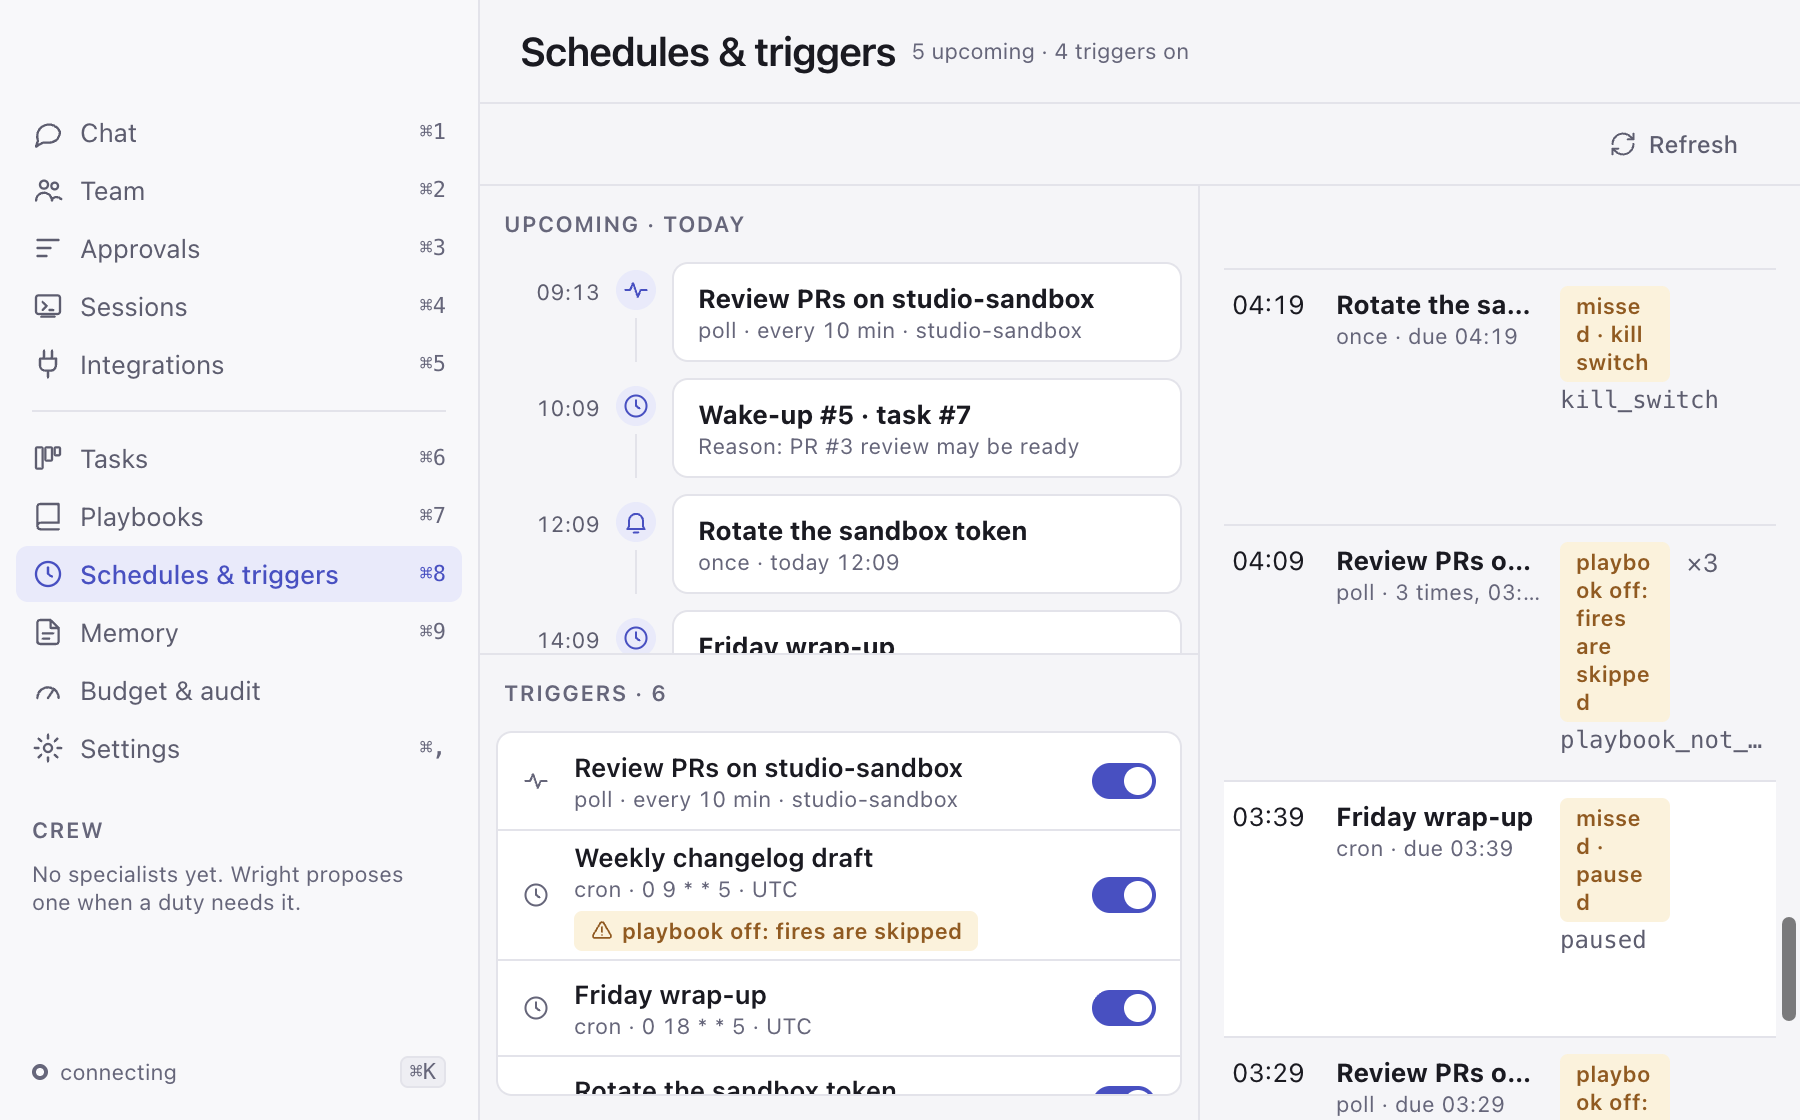
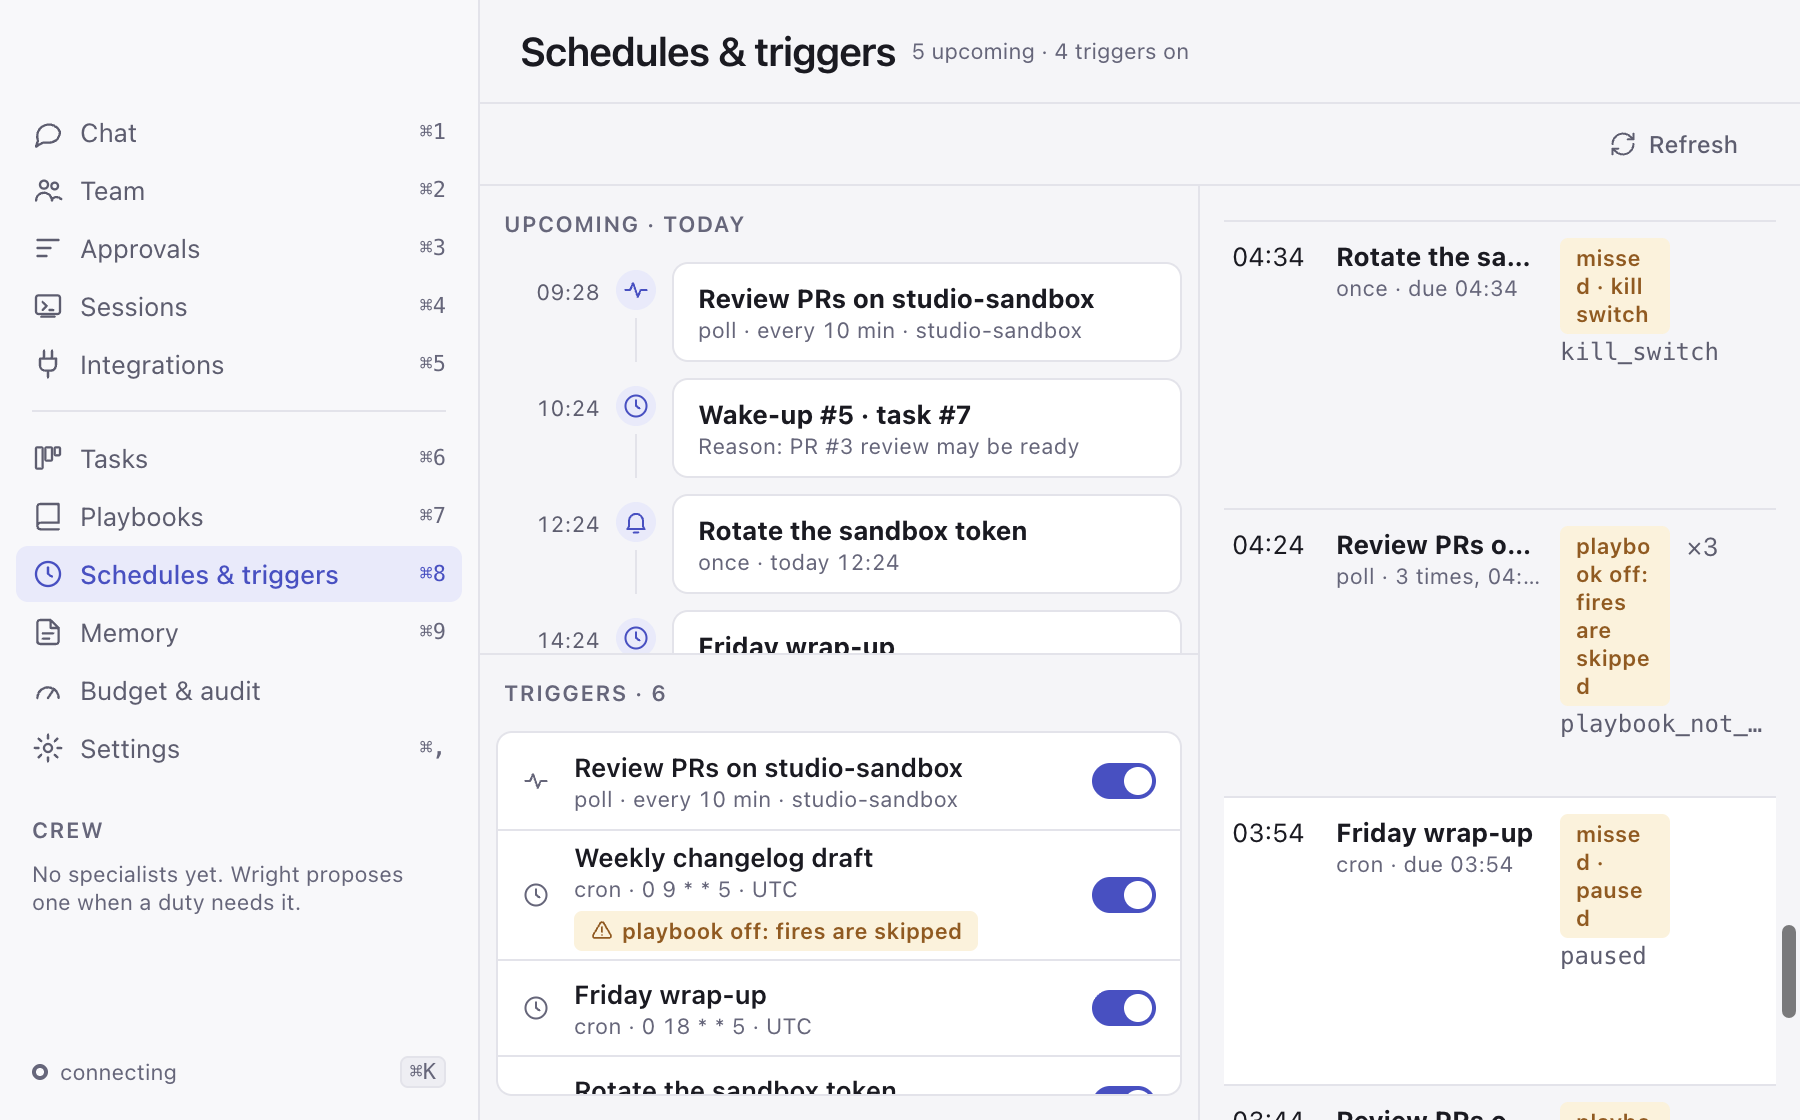
fix: address review feedback (iteration 3)

diff --git a/app/e2e/schedules.spec.ts b/app/e2e/schedules.spec.ts
@@ -126,10 +126,19 @@ async function boxes(page: Page, id: string): Promise<(({ x: number; y: number; 
 
 const switchNamed = (page: Page, name: string): Locator => page.getByRole("switch", { name });
 
-/** Resize the already-launched window (the same path as `settings.spec.ts`) and wait until the page has that inner size. */
+/**
+ * The window's own size, from the main process (`BrowserWindow.getSize()`, the outer size `main.ts` sets): on Linux the frame
+ * and menu bar take about 27px of it, so the renderer's `innerHeight` is shorter than the window; on macOS they coincide.
+ */
+async function windowSize(): Promise<number[]> {
+  return (await app?.evaluate(({ BrowserWindow }) => BrowserWindow.getAllWindows()[0]?.getSize())) ?? [];
+}
+
+/** Resize the already-launched window (the same path as `settings.spec.ts`), wait until the window is that size and the page is that wide (the layout breakpoints read the width only). */
 async function resizeWindow(page: Page, width: number, height: number): Promise<void> {
   await app?.evaluate(({ BrowserWindow }, size) => BrowserWindow.getAllWindows()[0]?.setSize(size.width, size.height), { width, height });
-  await expect.poll(() => page.evaluate(() => [window.innerWidth, window.innerHeight]), { message: `the window is ${width}x${height}` }).toEqual([width, height]);
+  await expect.poll(windowSize, { message: `the window is ${width}x${height}` }).toEqual([width, height]);
+  await expect.poll(() => page.evaluate(() => window.innerWidth), { message: `the page is ${width}px wide` }).toBe(width);
   await settle(page);
 }
 
@@ -769,7 +778,8 @@ test("AC7: a trigger_fired and a wakeup_scheduled event update the timeline and 
 
 test("AC1 (item 25): at the default window size every Result chip shows its whole text inside its cell, light and dark, in the all-triggers table and in the poll's own history", async ({}, testInfo) => {
   const { page } = await openPopulated();
-  expect(await page.evaluate(() => [window.innerWidth, window.innerHeight]), "the default window size (main.ts)").toEqual([1180, 760]);
+  expect(await windowSize(), "the default window size (main.ts)").toEqual([1180, 760]);
+  expect(await page.evaluate(() => window.innerWidth), "the page is as wide as the window").toBe(1180);
   const skipped = await pageToSkipped(page);
   const skippedRows = await skipped.count();
   expect(skippedRows, "the history shows playbook_not_enabled rows").toBeGreaterThan(0);
@@ -920,6 +930,16 @@ test("AC3 (item 25): a row's height depends only on its chip label and reason li
       // The reference is each row with its own count and time as rendered; the variants only change text inside it.
       const base = await heights();
       expect(base.length, "the paged history has rows").toBeGreaterThan(15);
+      // The chips fit their rows in this font too (a wider font wraps a chip to more lines; its row must still hold them).
+      const report = await chipReport(page);
+      expect(report.skipped, `${where}: the playbook_not_enabled rows are measured`).toBeGreaterThan(0);
+      expect(report.problems, `${where}: no chip is clipped and no row outgrew its height`).toEqual([]);
+      if (width < 1140) {
+        const fit = await paneFit(page);
+        expect(fit.paneScroll, `${where}: the pane has no horizontal scroll`).toBeLessThanOrEqual(fit.paneClient);
+        expect(fit.tableWidth, `${where}: the table fits its parent`).toBeLessThanOrEqual(fit.parentClient);
+        expect(fit.triggerHead, `${where}: the Trigger column keeps a usable width`).toBeGreaterThanOrEqual(96);
+      }
       for (const [count, time] of [[null, "14:20"], ["×2", "14:20"], ["×999", "28 Sep 23:59"], ["×1000", "Wed 23:59"], ["×9999", "28 Sep 23:59"]] as const) {
         await setText(count, time);
         await settle(page);

diff --git a/app/src/screens/schedules/schedules.css b/app/src/screens/schedules/schedules.css
@@ -589,8 +589,9 @@
 
 /* A narrow window (down to the 900px minimum): the list pane keeps its width, so the history table has about 250px.
    When shrinks (a time wraps to two lines), the Result column takes what the Trigger column (kept above 96px) leaves,
-   the detail pane's padding and the cells' padding are tighter, and the fixed row is tall enough for a chip of five
-   lines above its reason (the "×N" slot narrows the chip by 5ch). */
+   the detail pane's padding and the cells' padding are tighter, and the fixed row is tall enough for the chip of
+   "playbook off: fires are skipped" above its reason line: five lines (128px) in the default font, six (139px) in a
+   Verdana-width font, where the "×N" slot (5ch) narrows the chip; 144px holds both (the e2e height test checks both fonts). */
 @media (max-width: 1139px) {
   .schedules-pane > .schedules-pad {
     padding-left: var(--space-3);
@@ -607,7 +608,7 @@
     padding: var(--space-2) var(--space-1);
   }
   .schedules-fire {
-    height: 128px;
+    height: 144px;
   }
 }
 

diff --git a/docs/evidence/phase-7-polish/schedules/README.md b/docs/evidence/phase-7-polish/schedules/README.md
@@ -86,7 +86,7 @@ Two things made the AC7 check fail and were fixed or reverted. On its first run 
 - **A Refresh button, and "Not fired · 7+".** The toolbar has a Refresh button (the palette's "Refresh schedule", reachable without ⌘K); while older pages exist the chip counts say "10+" because the count is of the fires loaded.
 - **The unreachable view shows the shell's band only.** The mockup's band has a "Kernel log" link; the shell's shared band has none. The screen draws its own band only when its own read answered status 0 before the shell noticed, so exactly one band is on screen.
 - **The confirm dialog is the design system's `decision` Dialog** (Cancel with the `Esc` chip, a primary "Turn on and fire now"), because the mockup has no view for it. It is not a destructive confirm, so Escape closes it.
-- **Row text clips, a Result chip wraps.** History rows have a fixed height so a refetch moves nothing; a long name, the recorded reason and a repeat count of "×1000" or more (its full value is the tooltip; "×999" fits in the default font and in Verdana) end in an ellipsis, but a Result chip never does: "playbook off: fires are skipped" is one line at the default window size and wraps to up to five lines at the 900px minimum, where the row is taller (128px, against 72px) and the When and Result columns are narrower. The mockup (`.hist .c3{width:150px}`) draws no such chip, so it shows no wrapped Result. Timeline entries and trigger rows are as tall as their content (two-line titles, the playbook-off note), which a refetch does not change.
+- **Row text clips, a Result chip wraps.** History rows have a fixed height so a refetch moves nothing; a long name, the recorded reason and a repeat count of "×1000" or more (its full value is the tooltip; "×999" fits in the default font and in Verdana) end in an ellipsis, but a Result chip never does: "playbook off: fires are skipped" is one line at the default window size and wraps to five lines (six in a Verdana-width font, which the e2e height test also checks) at the 900px minimum, where the row is taller (144px, against 72px) and the When and Result columns are narrower. The mockup (`.hist .c3{width:150px}`) draws no such chip, so it shows no wrapped Result. Timeline entries and trigger rows are as tall as their content (two-line titles, the playbook-off note), which a refetch does not change.
 
 ## Limits
 
